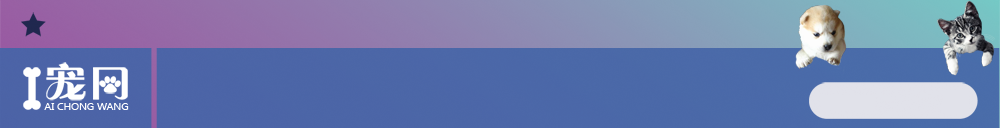
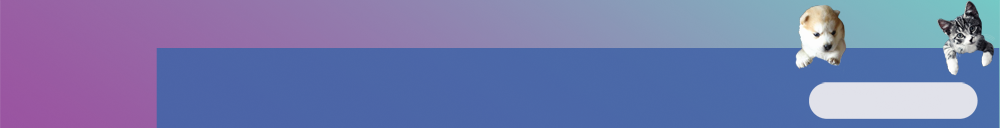
1-5 Pages Changed
1-5 Pages Changed

Changed region(s): [[0.0, 0.375, 0.155, 1.0], [0.0, 0.125, 0.062, 0.2812]]

diff --git a/css/style-article.css b/css/style-article.css
@@ -2,6 +2,10 @@ img{
 	border: 0;
 }
 
+body{
+	font-family: "微软雅黑", "宋体", "黑体", Arial;
+}
+
 #container{
 	position: relative;
 	width: 1000px;
@@ -45,6 +49,7 @@ img{
 }
 
 #header #logo3{
+	font-weight: bold;
 	position: relative;
 	margin-right: 30px;
 	float: right;
@@ -85,6 +90,7 @@ img{
 	position: relative;
 	width: 128px;
 	height: 64px;
+	margin-top: -12px;
 	margin-right: 10px;
 	padding: 0;
 	float: left;
@@ -231,7 +237,6 @@ img{
 	margin-top: 6px;
 	margin-left: 6px;
 	border: 1px black solid;
-	background-color: none;
 	float: left;
 	cursor: pointer;
 }
@@ -251,7 +256,6 @@ img{
 	margin-top: 6px;
 	margin-left: 6px;
 	border: 1px black solid;
-	background-color: none;
 	float: left;
 	cursor: pointer;
 }

diff --git a/css/style-adoption.css b/css/style-adoption.css
@@ -2,6 +2,10 @@ img{
 	border: 0;
 }
 
+body{
+	font-family: "微软雅黑", "宋体", "黑体", Arial;
+}
+
 #container{
 	position: relative;
 	width: 1000px;
@@ -45,6 +49,7 @@ img{
 }
 
 #header #logo3{
+	font-weight: bold;
 	position: relative;
 	margin-right: 30px;
 	float: right;
@@ -85,6 +90,7 @@ img{
 	position: relative;
 	width: 128px;
 	height: 64px;
+	margin-top: -12px;
 	margin-right: 10px;
 	padding: 0;
 	float: left;

diff --git a/css/style-apps.css b/css/style-apps.css
@@ -2,6 +2,10 @@ img{
 	border: 0;
 }
 
+body{
+	font-family: "微软雅黑", "宋体", "黑体", Arial;
+}
+
 #container{
 	position: relative;
 	width: 1000px;
@@ -45,6 +49,7 @@ img{
 }
 
 #header #logo3{
+	font-weight: bold;
 	position: relative;
 	margin-right: 30px;
 	float: right;
@@ -85,6 +90,7 @@ img{
 	position: relative;
 	width: 128px;
 	height: 64px;
+	margin-top: -12px;
 	margin-right: 10px;
 	padding: 0;
 	float: left;

diff --git a/css/style-mainpage.css b/css/style-mainpage.css
@@ -2,6 +2,10 @@ img{
 	border: 0;
 }
 
+body{
+	font-family: "微软雅黑", "宋体", "黑体", Arial;
+}
+
 #container{
 	position: relative;
 	width: 1000px;
@@ -45,6 +49,7 @@ img{
 }
 
 #header #logo3{
+	font-weight: bold;
 	position: relative;
 	margin-right: 30px;
 	float: right;
@@ -85,6 +90,7 @@ img{
 	position: relative;
 	width: 128px;
 	height: 64px;
+	margin-top: -12px;
 	margin-right: 10px;
 	padding: 0;
 	float: left;

diff --git a/css/style-news.css b/css/style-news.css
@@ -2,6 +2,10 @@ img{
 	border: 0;
 }
 
+body{
+	font-family: "微软雅黑", "宋体", "黑体", Arial;
+}
+
 #container{
 	position: relative;
 	width: 1000px;
@@ -45,6 +49,7 @@ img{
 }
 
 #header #logo3{
+	font-weight: bold;
 	position: relative;
 	margin-right: 30px;
 	float: right;
@@ -85,6 +90,7 @@ img{
 	position: relative;
 	width: 128px;
 	height: 64px;
+	margin-top: -12px;
 	margin-right: 10px;
 	padding: 0;
 	float: left;

diff --git a/adoption.php b/adoption.php
@@ -38,17 +38,17 @@
 
 				</div>
 				<!-- 修改内容：这里添加了登陆按钮的预置位-->
-				<div id="logo1" class="leaderelements"></div>
+				<div id="logo1" class="leaderelements">
+					<img src="images/BlackStar.png"></img>
+				</div>
 				<!-- div id="logo2" class="leaderelements">Tencent</div -->
 				<div id="logo3" class="leaderelements">
-				<FONT FACE=微软雅黑 color="black"><strong>
 				<?php
 					if($sign_in)
 						echo "<a href='logout.php'>退出登录</a>";
 					else
 						echo "<a href='login.php'>登录</a> | <a href='Register.php'>注册</a>";
 				?>
-				</strong></FONT>
 				</div>
 				<br/>
 				<br/>
@@ -65,7 +65,7 @@
 			<div id="menu">
 				<!-- 修改：这里放置选项按钮及搜索栏 -->
 				<div id="menulogo">
-
+					<img src="images/iPet.png"></img>
 				</div>
 				<div id="menuinterface">
 					<div id="divoption0" class="divoptions">

diff --git a/apps.php b/apps.php
@@ -38,17 +38,17 @@
 
 				</div>
 				<!-- 修改内容：这里添加了登陆按钮的预置位-->
-				<div id="logo1" class="leaderelements"></div>
+				<div id="logo1" class="leaderelements">
+					<img src="images/BlackStar.png"></img>
+				</div>
 				<!-- div id="logo2" class="leaderelements">Tencent</div -->
 				<div id="logo3" class="leaderelements">
-				<FONT FACE=微软雅黑 color="black"><strong>
 				<?php
 					if($sign_in)
 						echo "<a href='logout.php'>退出登录</a>";
 					else
 						echo "<a href='login.php'>登录</a> | <a href='Register.php'>注册</a>";
 				?>
-				</strong></FONT>
 				</div>
 				<br/>
 				<br/>
@@ -65,7 +65,7 @@
 			<div id="menu">
 				<!-- 修改：这里放置选项按钮及搜索栏 -->
 				<div id="menulogo">
-
+					<img src="images/iPet.png"></img>
 				</div>
 				<div id="menuinterface">
 					<div id="divoption0" class="divoptions">

diff --git a/article.php b/article.php
@@ -41,17 +41,17 @@
 
 				</div>
 				<!-- 修改内容：这里添加了登陆按钮的预置位-->
-				<div id="logo1" class="leaderelements"></div>
+				<div id="logo1" class="leaderelements">
+					<img src="images/BlackStar.png"></img>
+				</div>
 				<!-- div id="logo2" class="leaderelements">Tencent</div -->
 				<div id="logo3" class="leaderelements">
-				<FONT FACE=微软雅黑 color="black"><strong>
 				<?php
 					if($sign_in)
 						echo "<a href='logout.php'>退出登录</a>";
 					else
 						echo "<a href='login.php'>登录</a> | <a href='Register.php'>注册</a>";
 				?>
-				</strong></FONT>
 				</div>
 			</div>
 
@@ -66,7 +66,7 @@
 			<div id="menu">
 				<!-- 修改：这里放置选项按钮及搜索栏 -->
 				<div id="menulogo">
-
+					<img src="images/iPet.png"></img>
 				</div>
 				<div id="menuinterface">
 					<div id="divoption0" class="divoptions">

diff --git a/index.php b/index.php
@@ -38,17 +38,17 @@
 
 				</div>
 				<!-- 修改内容：这里添加了登陆按钮的预置位-->
-				<div id="logo1" class="leaderelements"></div>
+				<div id="logo1" class="leaderelements">
+					<img src="images/BlackStar.png"></img>
+				</div>
 				<!-- div id="logo2" class="leaderelements">Tencent</div -->
 				<div id="logo3" class="leaderelements">
-				<FONT FACE=微软雅黑 color="black"><strong>
 				<?php
 					if($sign_in)
 						echo "<a href='logout.php'>退出登录</a>";
 					else
 						echo "<a href='login.php'>登录</a> | <a href='Register.php'>注册</a>";
 				?>
-				</strong></FONT>
 				</div>
 			</div>
 
@@ -63,7 +63,7 @@
 			<div id="menu">
 				<!-- 修改：这里放置选项按钮及搜索栏 -->
 				<div id="menulogo">
-
+					<img src="images/iPet.png"></img>
 				</div>
 				<div id="menuinterface">
 					<div id="divoption0" class="divoptions">

diff --git a/news.php b/news.php
@@ -38,17 +38,17 @@
 
 				</div>
 				<!-- 修改内容：这里添加了登陆按钮的预置位-->
-				<div id="logo1" class="leaderelements"></div>
+				<div id="logo1" class="leaderelements">
+					<img src="images/BlackStar.png"></img>
+				</div>
 				<!-- div id="logo2" class="leaderelements">Tencent</div -->
 				<div id="logo3" class="leaderelements">
-				<FONT FACE=微软雅黑 color="black"><strong>
 				<?php
 					if($sign_in)
 						echo "<a href='logout.php'>退出登录</a>";
 					else
 						echo "<a href='login.php'>登录</a> | <a href='Register.php'>注册</a>";
 				?>
-				</strong></FONT>
 				</div>
 			</div>
 
@@ -63,7 +63,7 @@
 			<div id="menu">
 				<!-- 修改：这里放置选项按钮及搜索栏 -->
 				<div id="menulogo">
-
+					<img src="images/iPet.png"></img>
 				</div>
 				<div id="menuinterface">
 					<div id="divoption0" class="divoptions">
